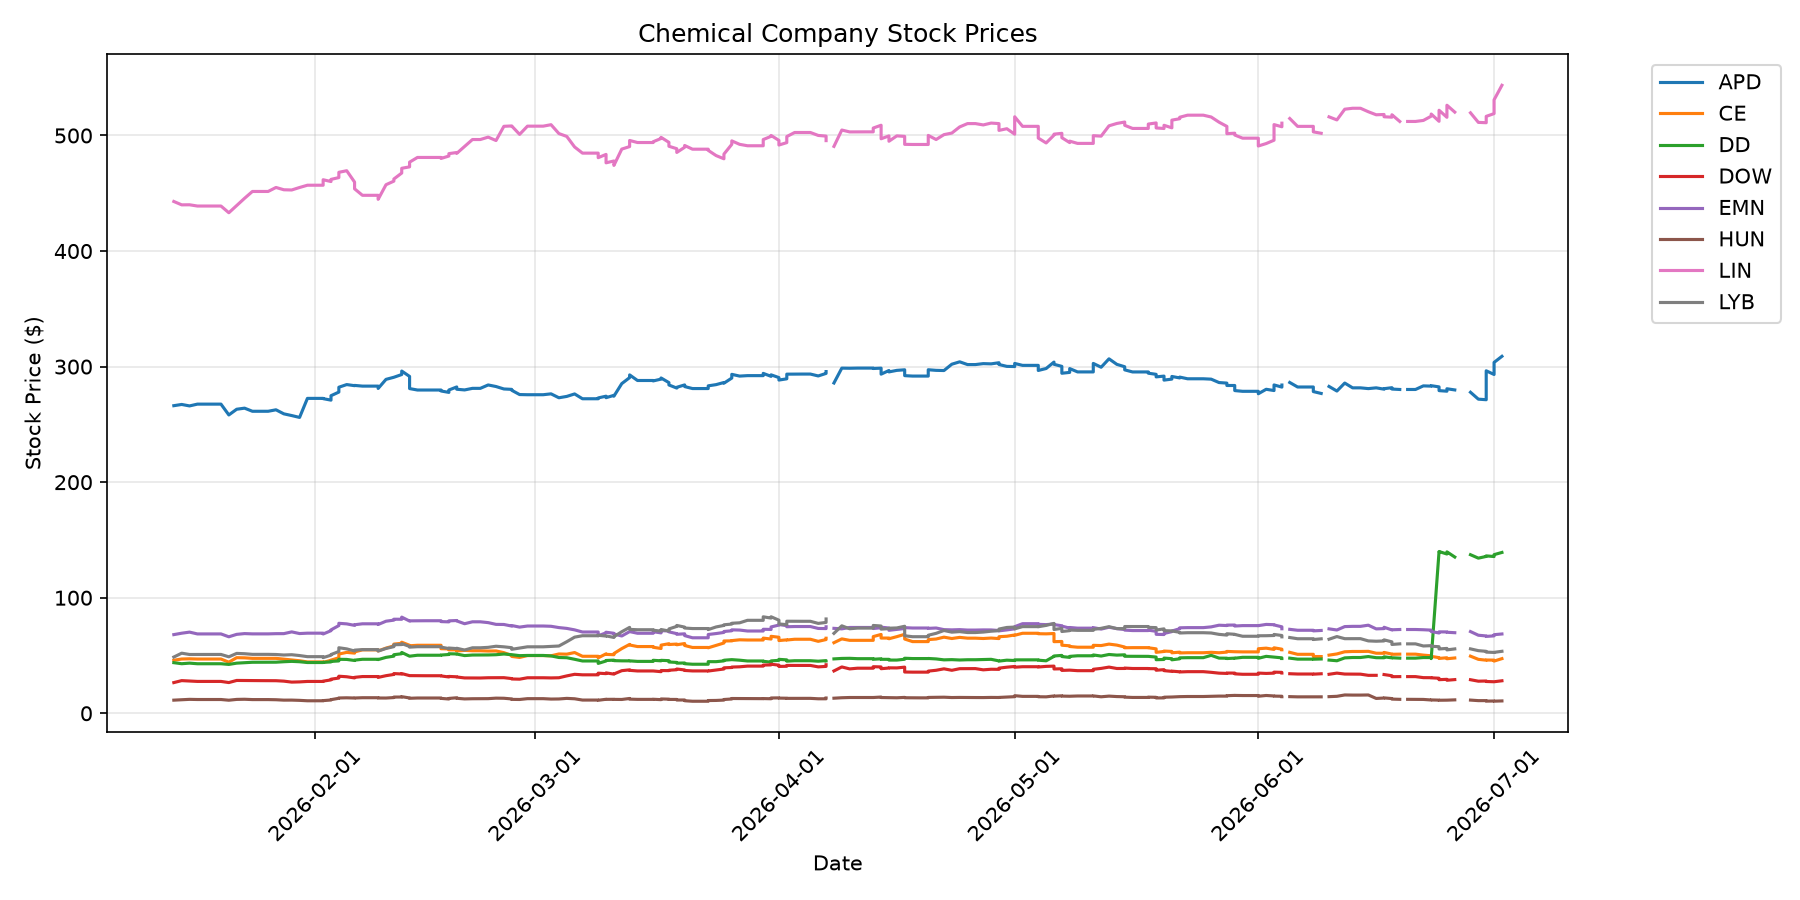
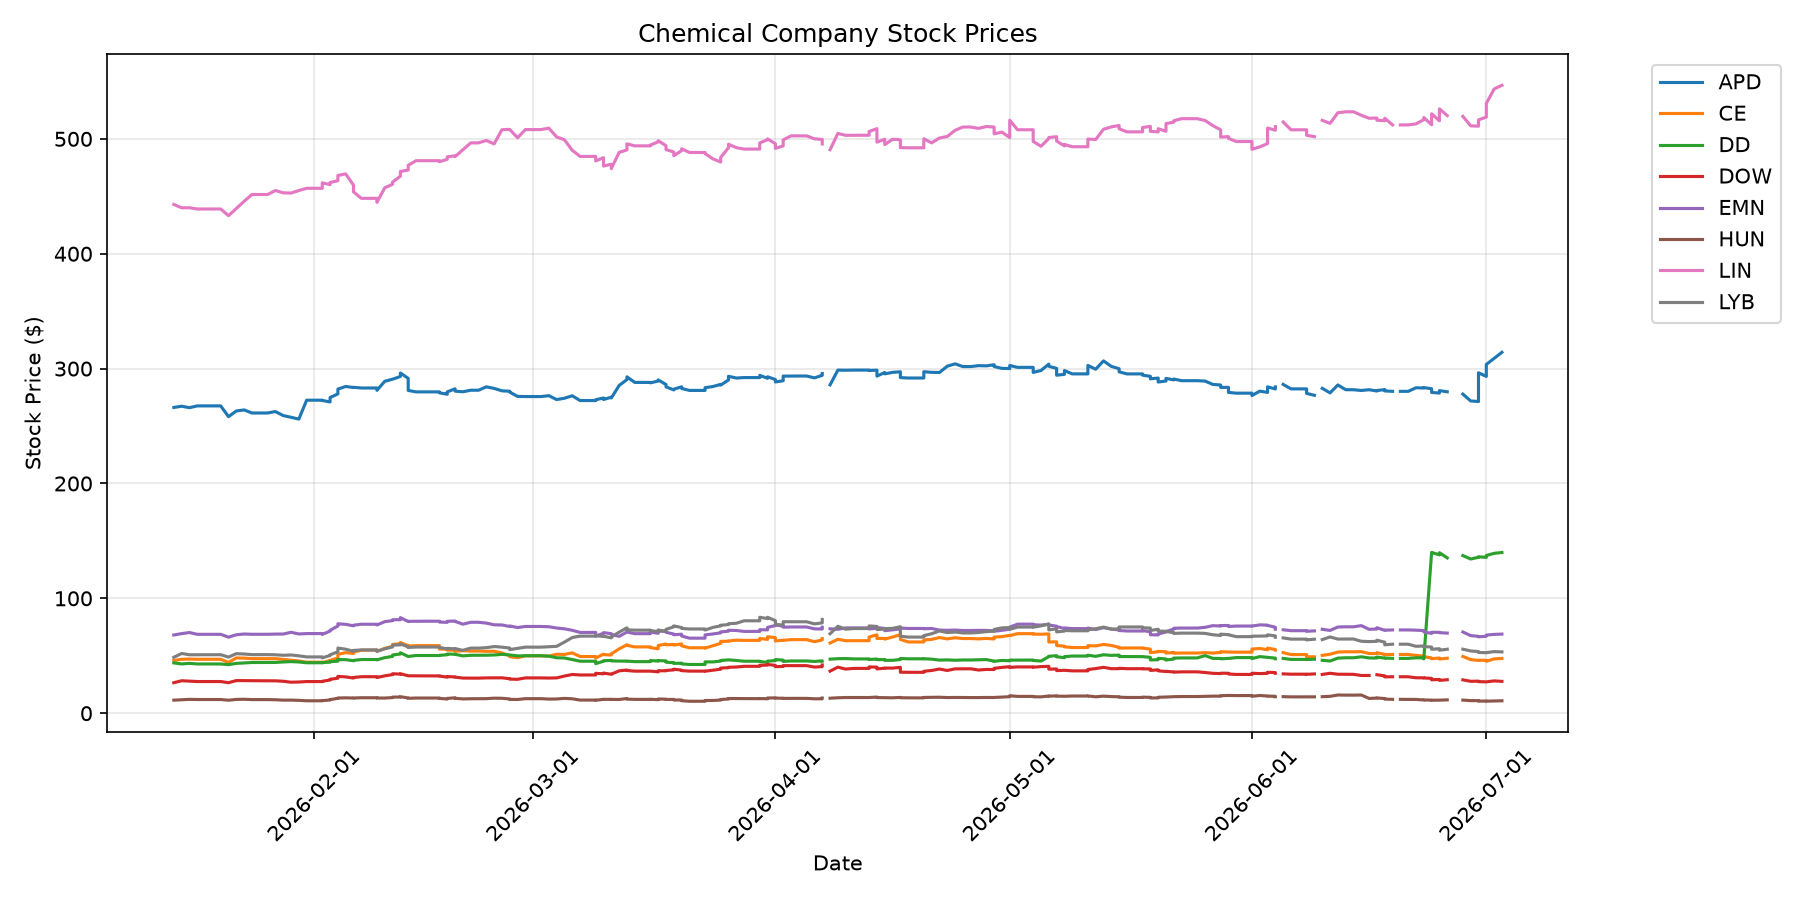
Daily price update: 2026-07-03

diff --git a/README.md b/README.md
@@ -2,29 +2,29 @@
 
 Automated daily tracking of chemical commodity prices and chemical company stocks.
 
-## Latest Prices (Updated: 2026-07-02)
+## Latest Prices (Updated: 2026-07-03)
 
 ### Energy Commodities
 
 | Commodity | Price | Change (24h) | Unit |
 |-----------|-------|--------------|------|
-| WTI Crude Oil | $67.61 | -0.97 (-1.41%) | $/barrel |
-| Brent Crude Oil | $70.73 | -0.84 (-1.17%) | $/barrel |
-| Natural Gas | $3.16 | -0.06 (-1.83%) | $/MMBtu |
-| Heating Oil | $3.16 | -0.05 (-1.69%) | $/gallon |
+| WTI Crude Oil | $68.65 | -0.04 (-0.06%) | $/barrel |
+| Brent Crude Oil | $71.94 | +0.14 (+0.19%) | $/barrel |
+| Natural Gas | $3.24 | +0.04 (+1.25%) | $/MMBtu |
+| Heating Oil | $3.24 | +0.06 (+1.76%) | $/gallon |
 
 ### Chemical Company Stocks
 
 | Company | Ticker | Price | Change (24h) |
 |---------|--------|-------|--------------|
-| Dow Inc. | DOW | $28.12 | +1.10 (+4.07%) |
-| LyondellBasell | LYB | $53.63 | +1.05 (+2.01%) |
-| DuPont | DD | $139.18 | +0.71 (+0.51%) |
-| Air Products | APD | $308.90 | +2.50 (+0.81%) |
-| Linde | LIN | $543.44 | +9.89 (+1.85%) |
-| Eastman Chemical | EMN | $68.62 | +1.53 (+2.28%) |
-| Celanese | CE | $47.28 | +2.08 (+4.61%) |
-| Huntsman | HUN | $10.69 | +0.14 (+1.28%) |
+| Dow Inc. | DOW | $27.71 | +0.69 (+2.55%) |
+| LyondellBasell | LYB | $53.36 | +0.78 (+1.48%) |
+| DuPont | DD | $139.91 | +1.44 (+1.04%) |
+| Air Products | APD | $314.19 | +7.79 (+2.54%) |
+| Linde | LIN | $546.64 | +13.09 (+2.45%) |
+| Eastman Chemical | EMN | $68.86 | +1.77 (+2.64%) |
+| Celanese | CE | $47.68 | +2.48 (+5.49%) |
+| Huntsman | HUN | $10.82 | +0.27 (+2.56%) |
 
 ## Data Sources
 

diff --git a/logs/update_log.md b/logs/update_log.md
@@ -283,3 +283,4 @@ Daily updates to the chemical engineering data repository.
 - **2026-07-01 00:31:47**: Updated 4 energy prices, 8 stocks, 0 FRED series
 - **2026-07-01 14:56:32**: Updated 4 energy prices, 8 stocks, 0 FRED series
 - **2026-07-02 14:43:27**: Updated 4 energy prices, 8 stocks, 0 FRED series
+- **2026-07-03 15:47:37**: Updated 4 energy prices, 8 stocks, 0 FRED series
